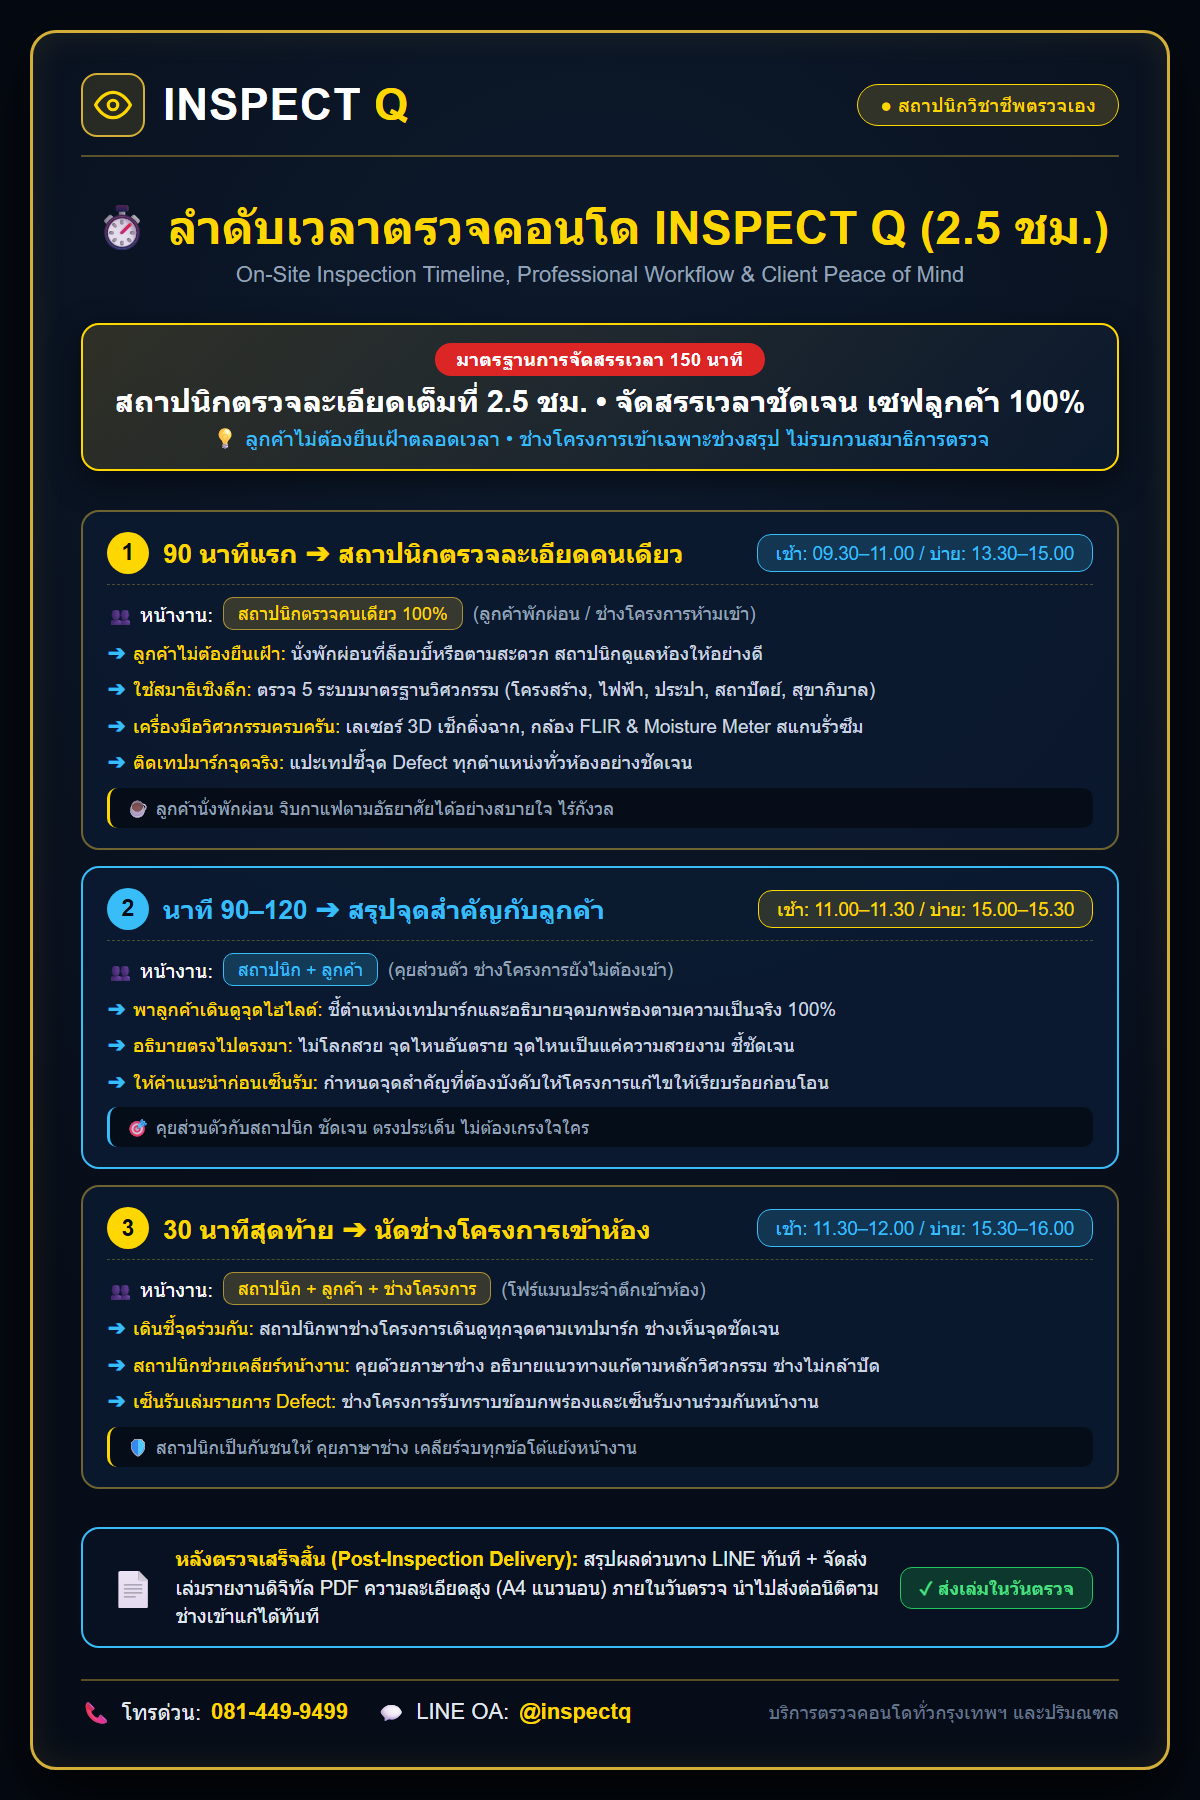
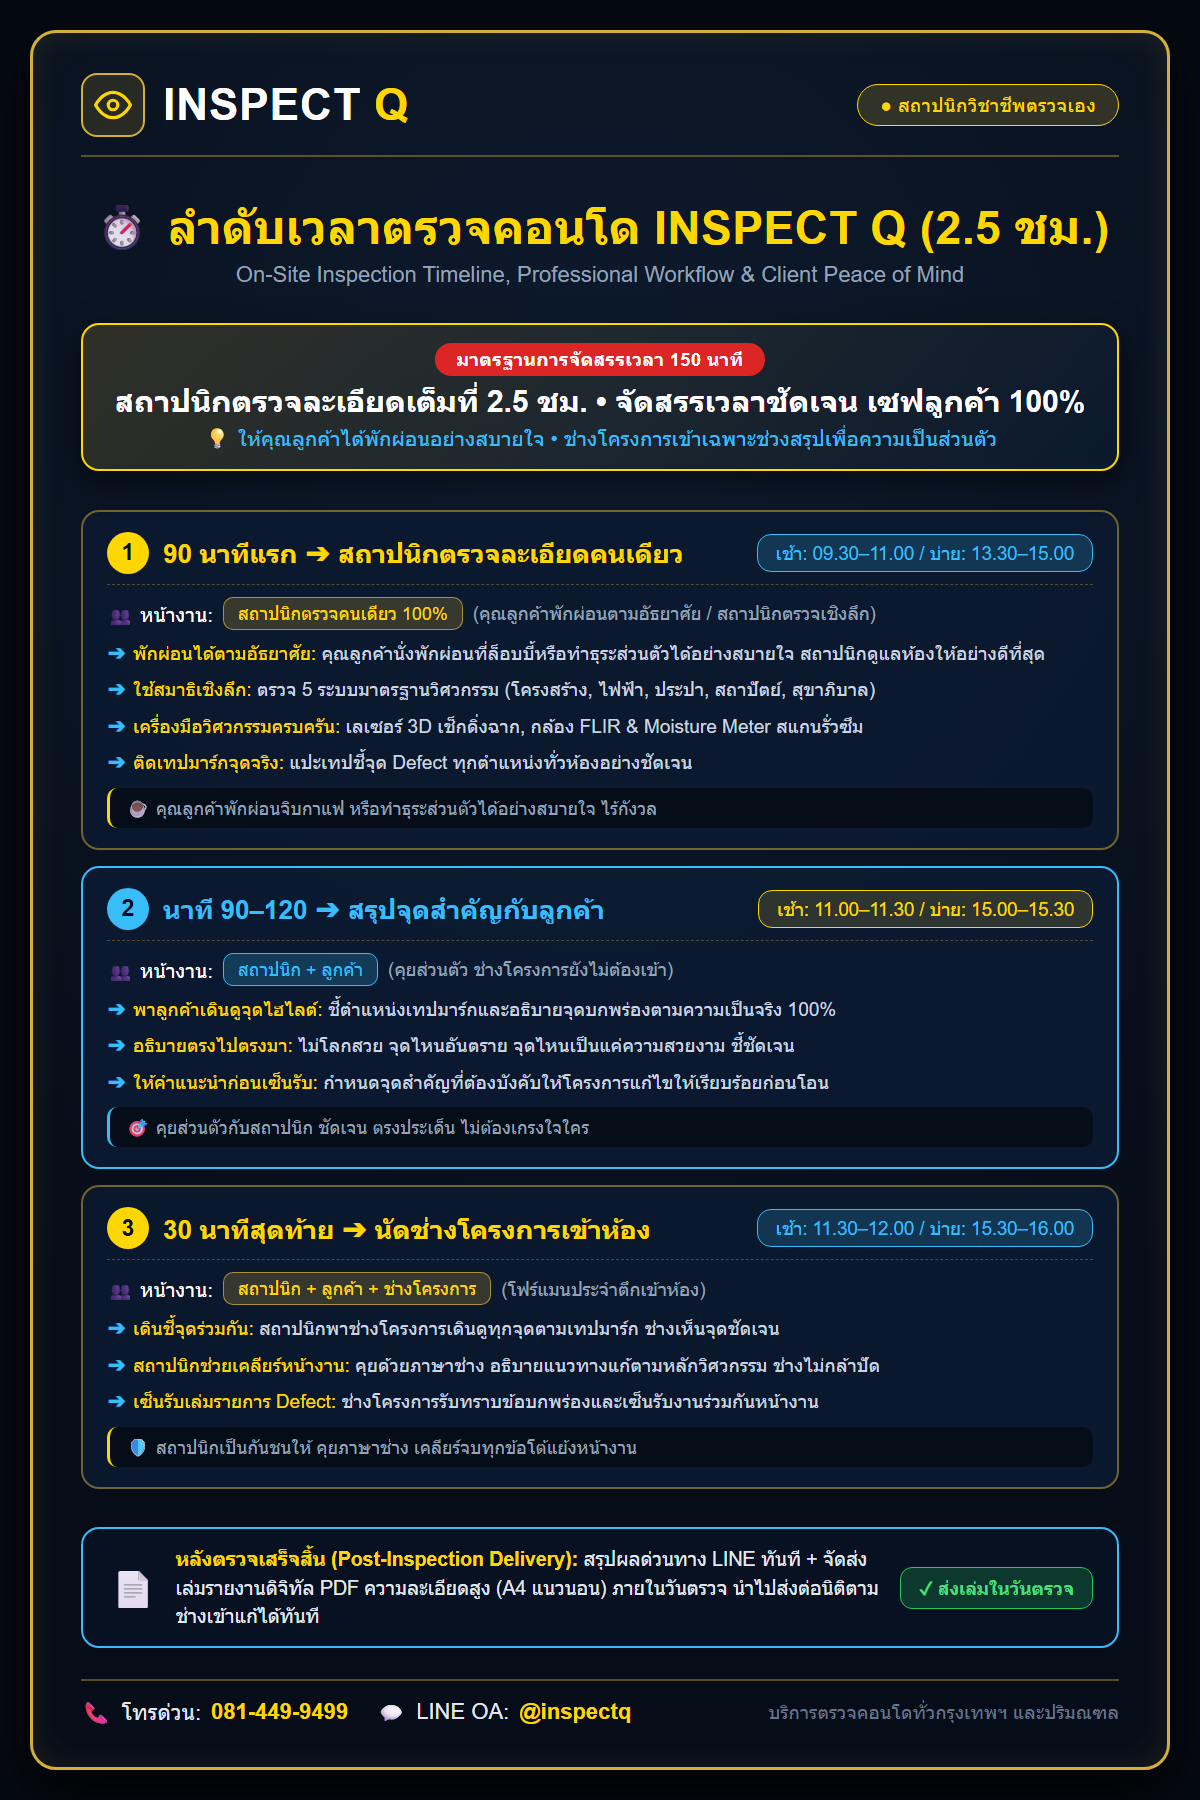
refactor: soften wording on Card 09 timeline and line.html (replace เฝ้า with polite phrasing)

Changed region(s): [[0.1233, 0.3111, 0.8633, 0.3733], [0.185, 0.2178, 0.8325, 0.2489], [0.1542, 0.4356, 0.5242, 0.4667]]

diff --git a/line.html b/line.html
@@ -690,7 +690,7 @@ https://seemee1234-dev.github.io/seemeinspect/landing.html
     <div class="content-box" id="t12" contenteditable="false">🏛 ลำดับเวลาตรวจคอนโด INSPECT Q (2.5 ชม.) ⏱
 
 1⃣ 90 นาทีแรก ➔ สถาปนิกตรวจละเอียดคนเดียว
-• ลูกค้าไม่ต้องเฝ้า นั่งพักผ่อนตามสะดวก
+• คุณลูกค้าพักผ่อนได้ตามอัธยาศัย หรือทำธุระส่วนตัว
 • สแกน 5 ระบบ, เลเซอร์ 3D, สแกนชื้น, ติดเทปมาร์ก
 
 2⃣ นาที 90–120 ➔ สรุปจุดสำคัญกับลูกค้า
